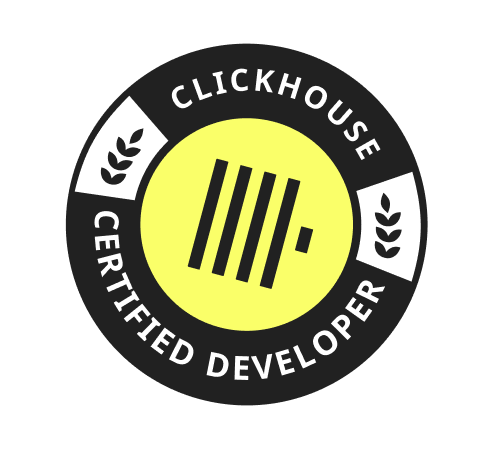
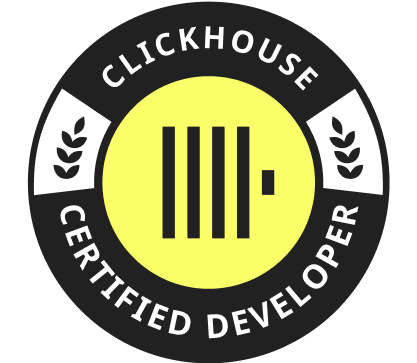
Updated certified developer badge

diff --git a/pages/learn/index.tsx b/pages/learn/index.tsx
@@ -377,9 +377,9 @@ export default function LearnPage({
           <Image
             src='/images/learn/certified-developer-badge.png'
             alt={'ClickHouse Certified Developer'}
-            width={494}
-            height={449}
-            className='pointer-events-none absolute right-0 -top-20 max-w-[130px] md:-top-40 md:max-w-[247px]'
+            width={417}
+            height={363}
+            className='pointer-events-none absolute right-0 -top-20 max-w-[130px] md:-top-40 md:max-w-[210px] rotate-[15deg]'
           />
 
           {/* Intro */}
@@ -428,9 +428,9 @@ export default function LearnPage({
 
           {/* Cards */}
           <div className='mt-12 flex flex-wrap justify-center gap-y-4'>
-            {onDemandCards.map((card) => {
+            {onDemandCards.map((card, index) => {
               return (
-                <div className='w-full px-2 md:w-1/2 lg:w-1/3'>
+                <div key={index} className='w-full px-2 md:w-1/2 lg:w-1/3'>
                   <OnDemandCard {...card} />
                 </div>
               )

diff --git a/pages/learn/certification.tsx b/pages/learn/certification.tsx
@@ -316,7 +316,7 @@ export default function CertificationPage({
           {/* Footnote */}
           <div className='text-center max-w-3xl mx-auto mt-16'>
             <Image
-              src="/images/learn/certified-developer-badge-alt.png"
+              src="/images/learn/certified-developer-badge.png"
               alt={'ClickHouse Certified Developer'}
               width={417}
               height={363}
